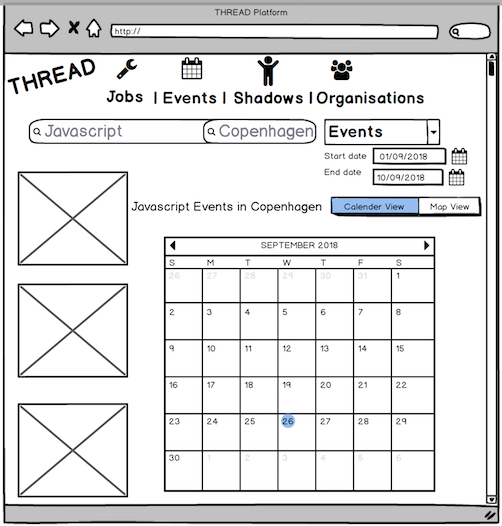
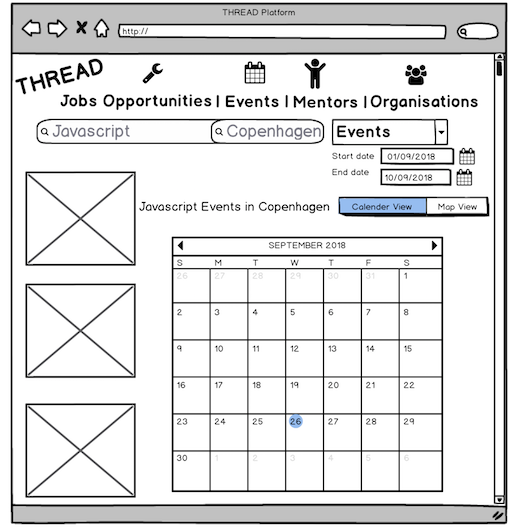
Mockup images change

Changed region(s): [[0.0, 0.0, 1.0, 1.0], [0.1793, 0.5779, 0.2092, 0.6084], [0.1793, 0.365, 0.2092, 0.3954]]

diff --git a/README.md b/README.md
@@ -29,7 +29,7 @@ Learn more about our customer here: https://ctr.hum.ku.dk/research-programmes-an
 
 ### The goal for this project is to develop an online platform to facilitate the connections between refugee women and individuals or organisations which share an interest in textiles and craft activity.
 
-Due to the complexity of this project we will only develop a platform where Jobs, Events, Calander, Organisations and Indiviuals, which will be called Shadows for now on, will be available to be searched upon, listed and also inserted in the system. The goal is to built the List Views and Insert Views related to these objects and make is possible to search by text and visualize them in a Map.
+Due to the complexity of this project we will only develop a platform where Jobs, Events, Calander, Organisations and Indiviuals, which will be called Mentors for now on, will be available to be searched upon, listed and also inserted in the system. The goal is to built the List Views and Insert Views related to these objects and make is possible to search by text and visualize them in a Map.
 
 ## Work stories
 
@@ -61,15 +61,15 @@ Due to the complexity of this project we will only develop a platform where Jobs
 
 ![MockupEventMapResultView](./images/MockupEventMapResultView.png)
 
-      > A Result View with 2 different sub Views for Shadows Search Results, one with 
+      > A Result View with 2 different sub Views for Mentors Search Results, one with 
       results on the Map and another with results on a calendar - use storybook and build 
       the components for the view. 
 
-![MockupShadowsResultMapView](./images/MockupShadowsResultMapView.png)
+![MockupMentorsResultMapView](./images/MockupMentorsResultMapView.png)
 
-![MockupShadowsResultListView](./images/MockupShadowsResultListView.png)
+![MockupMentorsResultListView](./images/MockupMentorsResultListView.png)
 
-Note: use the same logic and UI of the Shadow Results View for the Organisations Results View
+Note: use the same logic and UI of the Mentors Results View for the Organisations Results View
 
 
 ###### Please check the JSON file for Job ads provided by the API in
